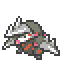
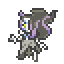
OTS: working on summary screen next

diff --git a/Plugins/Offline Trading System/main.rb b/Plugins/Offline Trading System/main.rb
@@ -1,4 +1,10 @@
 #Offline trading system
+#TO DO:
+#as a backup, i would do some checks at the end of the trade:
+#does this savefile have a pokemon with the exact same pkmnID? If so, the alien pokemon is deleted
+#if the pokemon received is above the badge level, the pokemon will always disobey. No ifs or buts
+#everytime a pokemon is deleted/added, the game automatically saves. The player does not confirm to save, the game forces the player to do so
+
 class Game_Player < Game_Character
 	attr_accessor :tradeID
 	@tradeID = ""
@@ -98,20 +104,84 @@ class OfflineTradingSystem
 		#game variable 66 is the 2nd code the player will give to someone else - it's the agreed upon trade code. Needs to be stored so this can be copied over and over as needed
 	end #def self.selectPkmnToTrade
 	
+	def self.setupTradingScreen(pkmnPlayerIsOffering)
+		@tradingViewport = Viewport.new(0, 0, Graphics.width, Graphics.height)
+		@tradingViewport.z = 99999
+		@sprites = {}
+		#def addBackgroundPlane(sprites, planename, background, viewport = nil)
+		addBackgroundPlane(@sprites, "background", "TradingImages/bg", @tradingViewport)
+		@sprites["overlay"] = BitmapSprite.new(Graphics.width, Graphics.height, @tradingViewport)
+		pbSetSystemFont(@sprites["overlay"].bitmap)		
+		#what player is offering
+		@sprites["pkmnPlayerIsOffering"] = PokemonSprite.new(@tradingViewport)
+		@sprites["pkmnPlayerIsOffering"].setSpeciesBitmap(pkmnPlayerIsOffering.species, pkmnPlayerIsOffering.gender, pkmnPlayerIsOffering.form, pkmnPlayerIsOffering.shiny?)
+		@sprites["pkmnPlayerIsOffering"].setOffset(PictureOrigin::CENTER)
+		@sprites["pkmnPlayerIsOffering"].x = 90
+		@sprites["pkmnPlayerIsOffering"].y = 134
+		@sprites["pkmnPlayerIsOffering"].mirror = true
+		#what player is receiving
+		@sprites["pkmnPlayerIsReceiving"] = PokemonSprite.new(@tradingViewport)
+		@sprites["pkmnPlayerIsReceiving"].setOffset(PictureOrigin::CENTER)
+		@sprites["pkmnPlayerIsReceiving"].x = Graphics.width - 90 #- @sprites["pkmnPlayerIsOffering"].width
+		@sprites["pkmnPlayerIsReceiving"].y = Graphics.height - 134 #- @sprites["pkmnPlayerIsOffering"].height
+		@sprites["pkmnPlayerIsReceiving"].visible = false
+	end #def self.setupTradingScreen
+	
 	def self.tradeMenu(pkmn)
 		#create new screen for trading
-		
+		pbFadeOutIn {
+			self.setupTradingScreen(pkmn)
+		}
 		
 		#save pokemon symbol as it will be used to delete the exact pokemon later
 		$game_variables[1] = pkmn
 		createOfferImage(pkmn)
 		
-		#the player then gives the offer to another player, who gives the original player THEIR offer image
-		#the player replaces Trade.png in the "Trading" folder with the offer image from the other player, and then the original player proceeds in game
-		self.readOfferImage(TRADE_FILE_PATH)
-		##########################self.promptAcceptTrade
+		#here is where the user will have input
+		command_list = [_INTL("Open Trade Folder"),_INTL("Check Offer"),_INTL("Cancel Trade")]
+		# Main loop
+		command = 0
+		ready = false
+		validTrade = false
+		cancel = false
+		
+		while !validTrade && !cancel
+			loop do
+				choice = pbMessage(_INTL("Give Trade.png to the person you're trading with. Replace your Trade.png with their Trade.png."), command_list, -1, nil, command)
+				case choice
+				when -1
+					cancel = true
+					break
+				when 0
+					root_folder = RTP.getPath('.', "Game.ini")
+					system("start explorer \"#{root_folder}\\Trading\"")
+				when 1
+					break
+				when 2
+					cancel = true
+					break
+				end #case choice
+			end #loop do
+			if !cancel
+				self.readOfferImage(TRADE_FILE_PATH)
+				if $game_player.tradeID == @otherPlayerTradeID
+					pbMessage(_INTL("Trade.png in your Trading folder is the offer you generated."))
+				else
+					print "players' tradeIDs do not match each other, so we can move on"
+					validTrade = true
+				end #if $game_player.tradeID == @otherPlayerTradeID
+			end #if !cancel
+		end #while !validTrade
+		
+		if cancel
+			pbFadeOutIn {
+				@tradingViewport.dispose
+				return
+			}
+		end
 		
 		#the game then asks the player if they wish to accept this trade (showing them the pkmn they would get and giving them the option to look at the summary screen)
+		self.promptAcceptTrade
 		#if yes, the game creates an agreement code which would create an image of the pokemon they send and the pokemon they receive (maybe with a handshake icon in the center?)
 		#if they decline, the game asks them to replace the file and check again or cancel the trade
 		
@@ -121,6 +191,19 @@ class OfflineTradingSystem
 		#pbAddPokemon(exact_pokemon)
 		
 	end #def self.tradeMenu
+	
+	def self.promptAcceptTrade
+		@pkmnPlayerWillReceive = nil
+		@marshalDataOfPkmnOtherPlayerIsOffering = nil
+		#show the pkmn they will receive
+		#this variable needs to be fully decoded
+		@marshalDataOfPkmnOtherPlayerIsOffering = [@pkmnOtherPlayerIsOfferingDecoded].pack('H*')
+		@pkmnPlayerWillReceive = Marshal.load(@marshalDataOfPkmnOtherPlayerIsOffering)
+		Console.echo_warn "player will receive this pokemon in return: #{@marshalDataOfPkmnOtherPlayerIsOffering}"
+		#set bitmap of sprite for what player is receiving and reveal it
+		@sprites["pkmnPlayerIsReceiving"].setSpeciesBitmap(@pkmnPlayerWillReceive.species, @pkmnPlayerWillReceive.gender, @pkmnPlayerWillReceive.form, @pkmnPlayerWillReceive.shiny?)
+		@sprites["pkmnPlayerIsReceiving"].visible = true
+	end #def self.promptAcceptTrade
 	
 	def self.createOfferImage(pkmn)
 		#this method takes the marshaldata of a pkmn offered for trading and turns the marshaldata into a hexadecimal format
@@ -159,28 +242,6 @@ class OfflineTradingSystem
 			puts "Adding text to png failed."
 			print "do something to try again"
 		end
-		
-		command_list = [_INTL("Open Trade Folder"),_INTL("Check Offer"),_INTL("Cancel Trade")]
-		# Main loop
-		command = 0
-		ready = false
-		loop do
-			choice = pbMessage(_INTL("Give Trade.png to the person you're trading with. Replace your Trade.png with their Trade.png."), command_list, -1, nil, command)
-			case choice
-			when 0
-				root_folder = RTP.getPath('.', "Game.ini")
-				system("start explorer \"#{root_folder}\\Trading\"")
-			when 1
-				ready = true
-			when 2
-				break
-			end #case choice
-		end #loop do
-		if ready
-			print "player chose to move on, so now we read the code again and combine 1st code and second code to create agreement"
-		else
-			#do nothing so we go back to PC box
-		end
 	end #def self.createOfferImage
 
 	def self.encode(data)
@@ -192,7 +253,7 @@ class OfflineTradingSystem
 			#else (key does not exist named after the character), so add the character to @encodedString and move on
 			if ENCODER_MAPPING.include?(char)
 				keyValue = ENCODER_MAPPING[char]
-				Console.echo_warn "#{char} will be encoded to #{keyValue}"
+				#Console.echo_warn "#{char} will be encoded to #{keyValue}"
 				@encodedString += keyValue
 			else
 				print "#{char} not included in encoder. Report this issue to the development team"
@@ -202,6 +263,20 @@ class OfflineTradingSystem
 		return @encodedString
 	end #def self.encode
 	
+	def self.decode(data)
+		Console.echo_warn data.to_s
+		@decodedString = ""
+		index = 0
+		while index < data.length
+			#puts data.slice(index, 3)
+			setOfCharactersToDecode = data.slice(index, 3)
+			@decodedString += ENCODER_MAPPING.key("#{setOfCharactersToDecode}")
+			index += 3
+		end
+		#puts "decoded string is #{@decodedString}"
+		return @decodedString
+	end #def self.encode
+
 	def self.saveTradeOfferBitmap(imageFilePath)
 		@viewport = Viewport.new(0,0,Graphics.width,Graphics.height)
 		imageFile = Sprite.new(@viewport)
@@ -226,19 +301,19 @@ class OfflineTradingSystem
 		
 		puts "Getting text from png successful!"
 		puts "Encoded hex from png: #{text_from_png}"
-		###############check the quests plugin (in IDE) to see how I split using a delimiter
 		arrayOfText = text_from_png.split("_")
-		@otherPlayerTradeID = arrayOfText[0]
-		@pkmnOtherPlayerIsOfferingEncoded = arrayOfText[1]
-		print "other player's tradeID is #{@otherPlayerTradeID}"
-		Console.echo_warn "@pkmnOtherPlayerIsOfferingEncoded is #{@pkmnOtherPlayerIsOfferingEncoded}"
+		@otherPlayerTradeID = self.decode(arrayOfText[0])
+		@pkmnOtherPlayerIsOfferingDecoded = self.decode(arrayOfText[1])
+		#Console.echo_warn "other player's tradeID is #{@otherPlayerTradeID}"
+		#Console.echo_warn "@pkmnOtherPlayerIsOfferingEncoded is #{@pkmnOtherPlayerIsOfferingEncoded}"
+		
+		Console.echo_warn "player's trade ID is '#{$game_player.tradeID}'"
+		Console.echo_warn "================================================"
+		Console.echo_warn "player tradeID from Trade.png is #{@otherPlayerTradeID}"
+		
 		#the game then extracts the text from that offer image, obtaining the encoded hex and other player's trade ID
 		#the tradeID is extracted into its own variable - @otherPlayerTradeID
-		#everything up to the _ in the encoded hex is deleted, and the _ is deleted too, so all that remains is the pkmn
-		
-			
-		
-		
+		#everything up to the _ in the encoded hex is deleted, and the _ is deleted too, so all that remains is the pkmn		
 	end #def self.readOfferImage
 
 end #class OfflineTradingSystem
